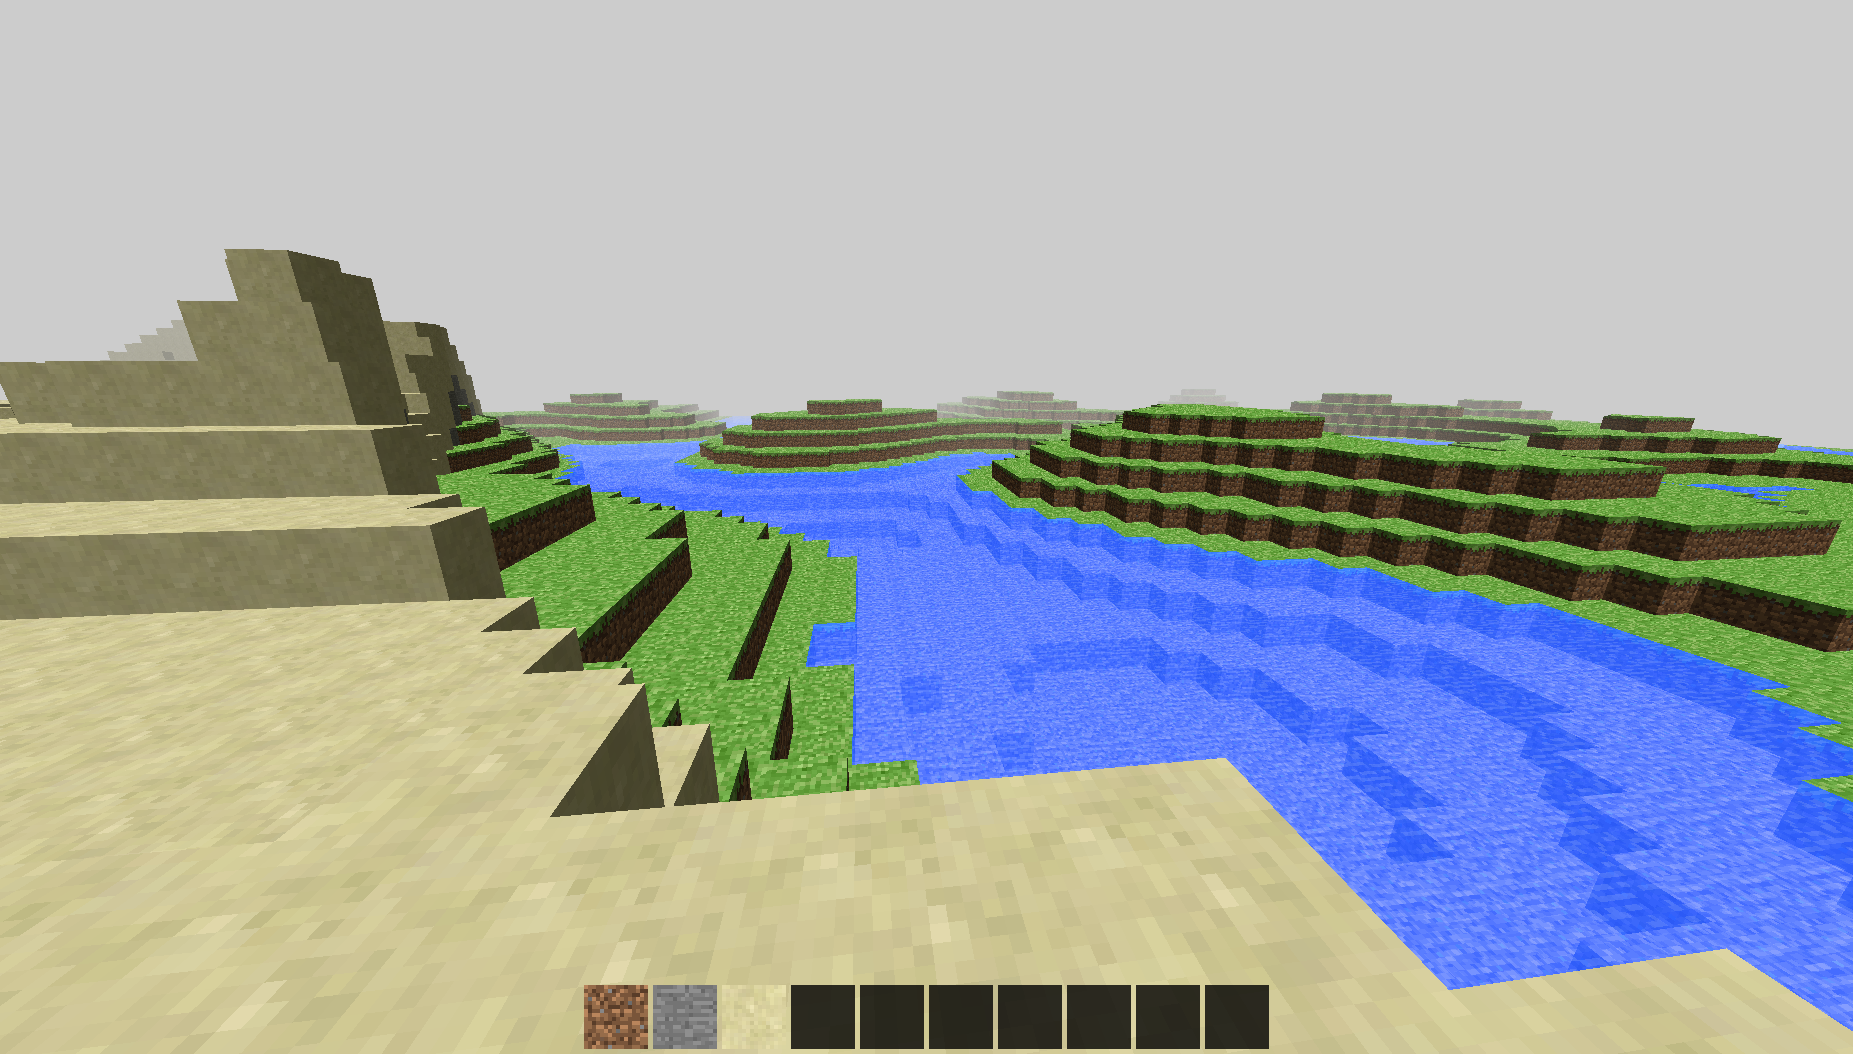
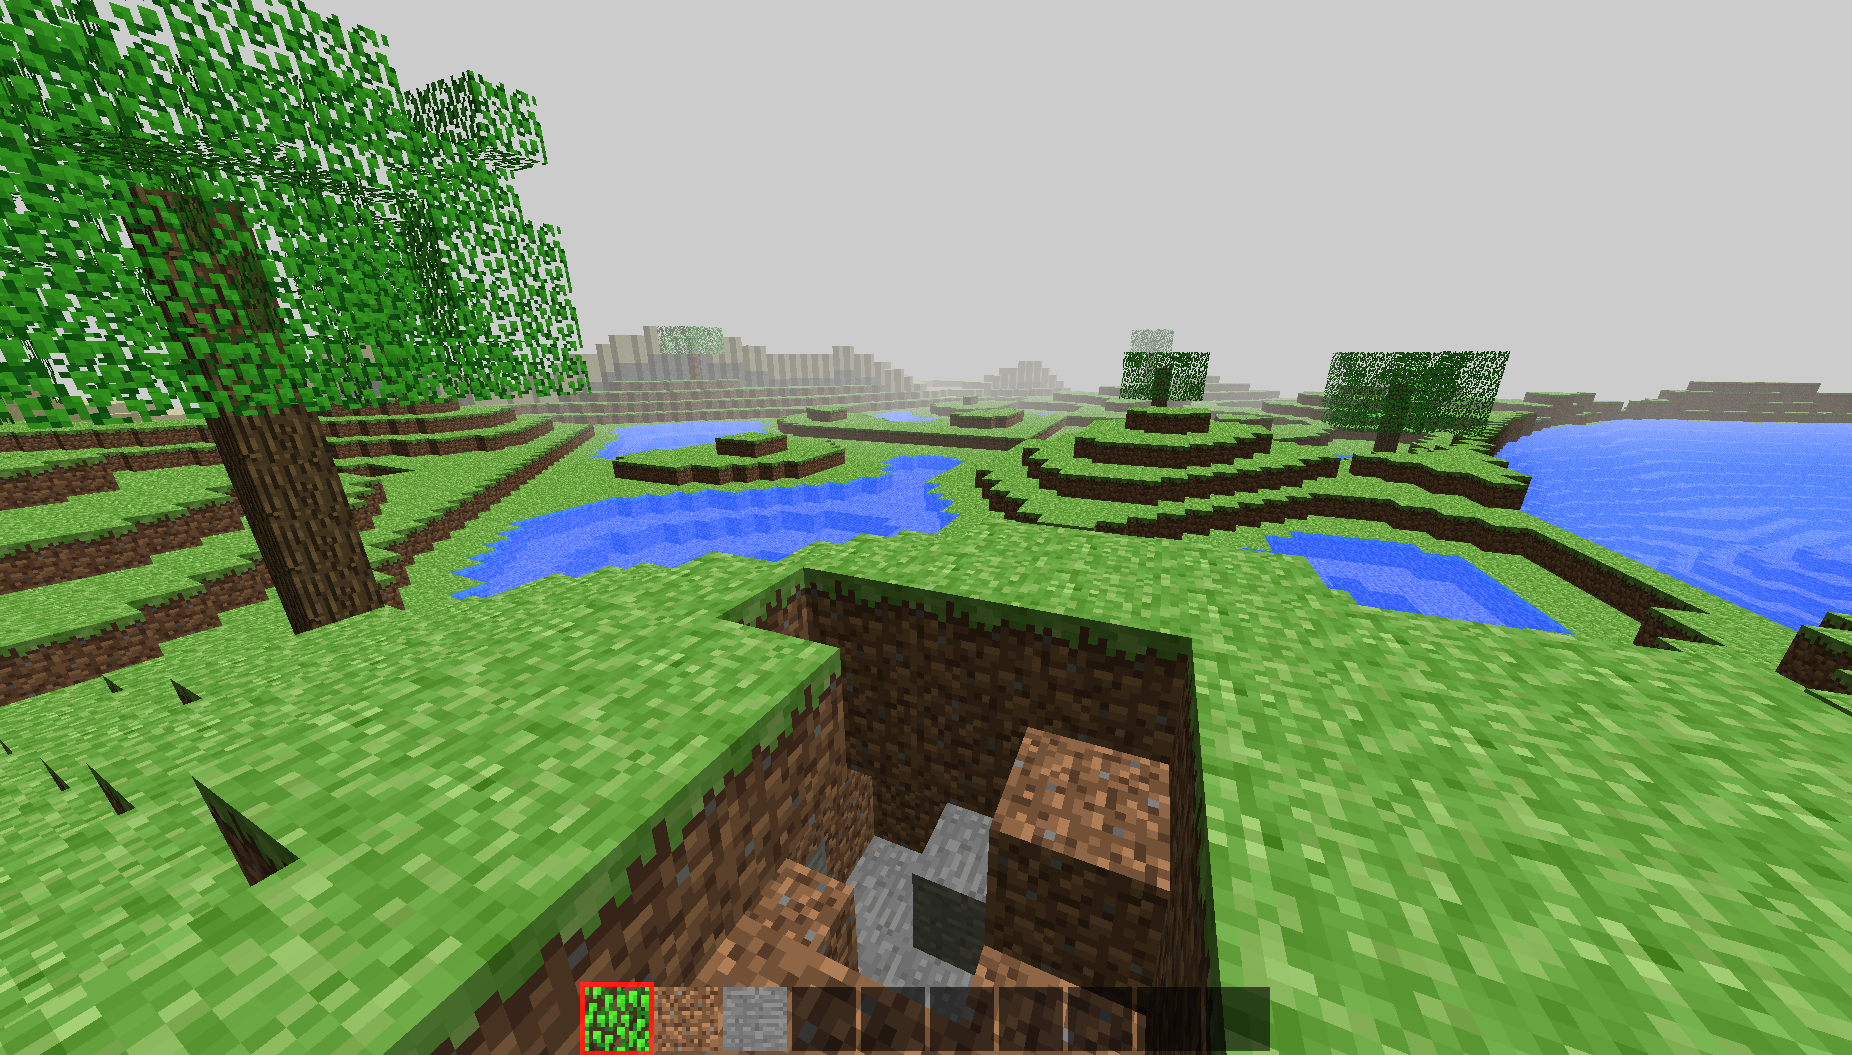
Trees and stuff

diff --git a/MinecraftOneWeek/src/GameWorld/worldgenerator.cpp b/MinecraftOneWeek/src/GameWorld/worldgenerator.cpp
@@ -1,6 +1,7 @@
 #include "worldgenerator.h"
 
 #include "world.h"
+#include "chunk.h"
 #include <assert.h>
 
 struct Biome
@@ -37,6 +38,8 @@ inline float clamp01(float a)
 {
     return a > 1.0f ? 1.0f : a < 0.0f ? 0.0f : a;
 }
+
+// TODO: I don't think this is how it should be done!
 
 static int calcBlockId(IVec3 position)
 {
@@ -82,15 +85,67 @@ static int calcBlockId(IVec3 position)
         return 0;
 }
 
+void WorldGenerator::addTree(IVec3 block, int height, int leafsize, int seed)
+{
+    // trunk
+    for(int i = 1; i < height+1; i++)
+    {
+        world->setBlockId(IVec3(block.x, block.y+i, block.z), 17);
+    }
+
+    int ysize = leafsize - 2;
+
+    for(int i = -leafsize; i <= leafsize; i++)
+    for(int j = -leafsize; j <= ysize; j++)
+    for(int k = -leafsize; k <= leafsize; k++)
+    {
+        if(rand() % 5 != 0 && (i != 0 || k != 0))
+        {
+            world->setBlockId(IVec3(block.x+i, block.y+j+height+1, block.z+k), 18);
+        }
+    } 
+}
+
 void WorldGenerator::fillChunk(IVec3 offset)
 {
+    IVec3 trees[100];
+    int treeLeafSizes[100];
+    int treeHeights[100];
+
+    uint32_t treeCount = 0;
+
+    uint32_t chunkSeed;
+    uint8_t xs = offset.x / 16;
+    uint8_t ys = offset.y / 16;
+    uint8_t zs = offset.z / 16;
+    chunkSeed = xs | ((ys & 1023) << 10) | ((zs & 1023) << 20);
+
+    srand(chunkSeed);
+
     const int chunkSize = 16;
     for(int i = 0; i < chunkSize; i++)
     for(int j = 0; j < chunkSize; j++)
     for(int k = 0; k < chunkSize; k++)
     {
         IVec3 block(offset.x + i, offset.y + j, offset.z + k);
-        world->setBlockId(block, calcBlockId(block));
+        uint8_t blockId = calcBlockId(block);
+        world->setBlockId(block, blockId);
+        if(blockId == 2 && rand() % 500 == 0) // grass
+        {
+            int index = treeCount++;
+            trees[index] = block;
+            treeLeafSizes[index] = 2+(rand()%2);
+            treeHeights[index] = 5+(rand()%4);
+        }
+    }
+
+    for(int i = 0; i < treeCount; i++)
+    {
+        // don't allow trees at chunk borders
+        // TODO: remove this limitation?
+        IVec3 loffset = Chunk::getLocalOffset(trees[i]);
+        if(loffset.x > 2 && loffset.x < 14 && loffset.z > 2 && loffset.z < 14)
+            addTree(trees[i], treeHeights[i], treeLeafSizes[i], chunkSeed);
     }
 }
 

diff --git a/MinecraftOneWeek/src/GameWorld/world.cpp b/MinecraftOneWeek/src/GameWorld/world.cpp
@@ -57,7 +57,6 @@ uint8_t World::getBlockId(IVec3 block)
     return ret;
 }
 
-// TODO: share code with getBlockId
 uint8_t World::setBlockId(IVec3 block, uint8_t newId)
 {
     IVec3 chunkId = Chunk::getChunkId(block);
@@ -94,13 +93,12 @@ bool World::lineCast(RaycastHit &hit, Vec3 start, Vec3 end)
                 hit.point = point;
                 hit.block = blockV;
                 
+                // determine block face TODO: seems buggy sometimes!
                 float offsetx = fabs(blockV.x - point.x);
                 float offsety = fabs(blockV.y - point.y);
                 float offsetz = fabs(blockV.z - point.z);
-
                 Vec3 offset0(fabs(0.0f - offsetx), fabs(0.0f - offsety), fabs(0.0f - offsetz));
                 Vec3 offset1(fabs(1.0f - offsetx), fabs(1.0f - offsety), fabs(1.0f - offsetz));
-
                 Vec3 minOffset(mymin(offset0.x, offset1.x), mymin(offset0.y, offset1.y), mymin(offset0.z, offset1.z));
                 if(minOffset.x < minOffset.y && minOffset.x < minOffset.z)
                     hit.faceDirection = (offset0.x < offset1.x ? IVec3(-1, 0, 0) : IVec3(1, 0, 0));

diff --git a/MinecraftOneWeek/src/Renderer/OpenGL/renderer.cpp b/MinecraftOneWeek/src/Renderer/OpenGL/renderer.cpp
@@ -320,7 +320,6 @@ void Renderer::meshLoadData(Mesh *mesh)
         glEnableVertexAttribArray(1);
         glVertexAttribPointer(1, 3, GL_FLOAT, GL_FALSE, 0, (GLvoid*)offset);
         offset += mesh->numVertices*sizeof(Vec3);
-        //printf("Set Tex coords\n");
     }
 
     if(FLAGSET(mesh->flags, Mesh::Flags::HasNormals))
@@ -375,7 +374,7 @@ void Renderer::renderMesh(Mesh *mesh, Material *material, Mat4 *model_to_world, 
         if(vertCode == nullptr || fragCode == nullptr)
         {
             fprintf(stderr, "Material not completely initialized!\n");
-            __builtin_trap();
+            assert(false);
         }
         printf("compile shader!\n");
         GLuint program;
@@ -522,7 +521,7 @@ void Renderer::presentFrame(sf::Window *window)
     if(gerror != 0)
     {
         fprintf(stderr, "GL error %x\n", gerror);
-        __builtin_trap();
+        assert(false);
     }
 
     window->display();

diff --git a/MinecraftOneWeek/src/game.cpp b/MinecraftOneWeek/src/game.cpp
@@ -8,7 +8,6 @@
 #include <cstdio>
 
 #define        STBI_NO_JPEG
-//#define        STBI_NO_PNG
 #define        STBI_NO_BMP
 #define        STBI_NO_PSD
 #define        STBI_NO_TGA
@@ -140,8 +139,6 @@ void Game::simulate(Renderer *renderer, float dt)
         }
 
         camRot += this->mouseDelta;
-        //camRot.x = fmod(camRot.x, 360.0f);
-        //camRot.y = fmod(camRot.y, 360.0f);
 
         Quaternion rotX = Quaternion::AngleAxis(rotSpeed * camRot.x, Vec3(0.0f, 1.0f, 0.0f));
         Quaternion rotY = Quaternion::AngleAxis(rotSpeed * camRot.y, Vec3(1.0f, 0.0f, 0.0f));

diff --git a/MinecraftOneWeek/src/GameWorld/chunk.cpp b/MinecraftOneWeek/src/GameWorld/chunk.cpp
@@ -44,6 +44,12 @@ IVec3 Chunk::getChunkId(IVec3 block)
     return ret;
 }
 
+IVec3 Chunk::getLocalOffset(IVec3 block)
+{
+    IVec3 chunk = getChunkId(block);
+    return IVec3(block.x - chunk.x, block.y - chunk.y, block.z - chunk.z);
+}
+
 bool isTransparent(uint8_t blockId)
 {
     switch(blockId)
@@ -51,6 +57,8 @@ bool isTransparent(uint8_t blockId)
         case 0:
             return true;
         case 9:
+            return true;
+        case 18:
             return true;
         default:
             return false;

diff --git a/MinecraftOneWeek/src/application.cpp b/MinecraftOneWeek/src/application.cpp
@@ -84,6 +84,7 @@ void Application::doFrame()
 {
     if(initialized)
     {
+        // TODO: variable frame rate!
         float dt60 = 1.0f / 60.0f;
         game->updateAndRender(mainRenderer, dt60);
         mainRenderer->presentFrame(this->window);

diff --git a/MinecraftOneWeek/src/GameWorld/worldgenerator.h b/MinecraftOneWeek/src/GameWorld/worldgenerator.h
@@ -7,6 +7,7 @@ class WorldGenerator
 public:
     WorldGenerator(class World *world);
     void fillChunk(IVec3 offset);
+    void addTree(IVec3 block, int height, int leafsize, int seed);
 
     class World *world;
 };

diff --git a/MinecraftOneWeek/src/GameWorld/chunk.h b/MinecraftOneWeek/src/GameWorld/chunk.h
@@ -20,6 +20,7 @@ public:
 
     void regenerateMesh();
     static IVec3 getChunkId(IVec3 block);
+    static IVec3 getLocalOffset(IVec3 block);
 
     int size;
     IVec3 offset;
